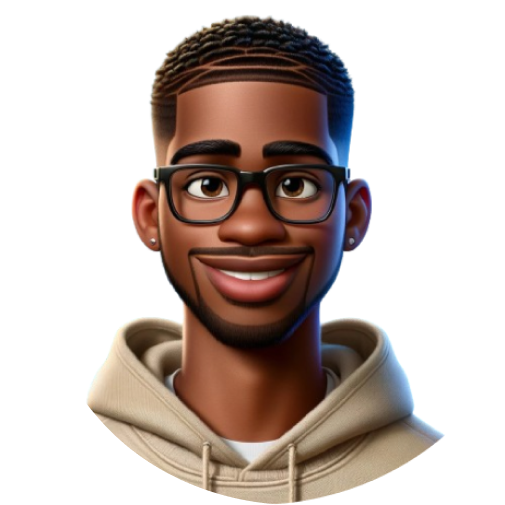
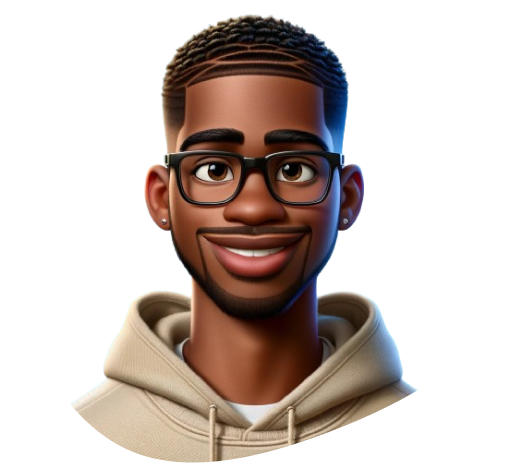
clean

Changed region(s): [[0.1485, 0.0302, 0.8911, 1.0]]

diff --git a/components/Work.jsx b/components/Work.jsx
@@ -1,0 +1,105 @@
+"use client";
+
+import Link from "next/link";
+import {Button} from "./ui/button";
+
+//import swiper styles
+import 'swiper/css';
+import "swiper/css/pagination"
+
+// import required modules
+import {Pagination} from "swiper/modules";
+
+//components
+import ProjectCard from "@/components/ProjectCard";
+import {Swiper, SwiperSlide} from 'swiper/react';
+
+const projectData = [
+    {
+        image: "/work/1.png",
+        category: "Web Development",
+        name: "Project 1",
+        description: "Lorem ipsum dolor sit amet, consectetur adipisicing elit. Aperiam, consequatur.",
+        link: "/",
+        github: "/",
+    },
+    {
+        image: "/work/2.png",
+        category: "Web Development",
+        name: "Project 1",
+        description: "Lorem ipsum dolor sit amet, consectetur adipisicing elit. Aperiam, consequatur.",
+        link: "/",
+        github: "/",
+    },
+    {
+        image: "/work/3.png",
+        category: "Web Development",
+        name: "Project 1",
+        description: "Lorem ipsum dolor sit amet, consectetur adipisicing elit. Aperiam, consequatur.",
+        link: "/",
+        github: "/",
+    },
+    {
+        image: "/work/4.png",
+        category: "Web Development",
+        name: "Project 1",
+        description: "Lorem ipsum dolor sit amet, consectetur adipisicing elit. Aperiam, consequatur.",
+        link: "/",
+        github: "/",
+    },
+    {
+        image: "/work/4.png",
+        category: "Web Development",
+        name: "Project 1",
+        description: "Lorem ipsum dolor sit amet, consectetur adipisicing elit. Aperiam, consequatur.",
+        link: "/",
+        github: "/",
+    },
+];
+
+const Work = () => {
+    return (
+        <section className={"relative mb-12 xl:mb-48"}>
+            <div className={"container mx-auto"}>
+                {/*  text  */}
+                <div
+                    className={"max-w-[400px] mx-auto xl:mx-0 text-center xk:text-left mb-12 xl:h-[400px] flex flex-col justify-center items-center xl:items-start"}>
+                    <h2 className={"section-title mb-4"}> Lastest Projects</h2>
+                    <p className={"subtitle mb-8"}>Lorem ipsum dolor sit amet, consectetur adipisicing elit. Aperiam,
+                        consequatur.</p>
+                    <Link href={"/work"}>
+                        <Button className={"mt-4"}>View All Projects</Button>
+                    </Link>
+                </div>
+                {/*  slider  */}
+                <div className={"xl:max-w-[1000px] xl:absolute right-0 top-0"}>
+                    <Swiper className={"h-[480px]"}
+                            spaceBetween={30}
+                            slidesPerView={1}
+                            breakpoints={{
+                                // when window width is >= 640px
+                                640: {
+                                    slidesPerView: 2,
+                                }
+                            }}
+                            modules={[Pagination]}
+                            pagination={{clickable: true}}
+                    >
+                        {/*  Show only the 4 projects for the slides  */}
+                        {projectData.slice(0, 4).map((project, index) => {
+                            return (
+                                <SwiperSlide key={index}>
+                                    <ProjectCard project={project}
+                                    />
+                                </SwiperSlide>
+
+                            );
+                        })}
+
+                    </Swiper>
+                </div>
+            </div>
+        </section>
+    )
+}
+export default Work

diff --git a/components/ProjectCard.jsx b/components/ProjectCard.jsx
@@ -1,0 +1,46 @@
+import Link from "next/link";
+import Image from "next/image";
+import {Card, CardHeader} from "@/components/ui/card";
+import {Github,Link2Icon} from "lucide-react";
+import {Badge} from "./ui/badge";
+
+
+const ProjectCard = ({project}) => {
+    console.log(project);
+    return (
+        <Card className={" group overflow-hidden relative"}>
+            <CardHeader className={" p-0"}>
+            {/*  image  */}
+                <div className={"relative w-full h-[300px] flex items-center justify-center bg-tertiary dark:bg-secondary/40 " +
+                    "xl:bg-work_project_bg_light xl:bg-[110%] dark:xl:bg-work_project_bg_dark xl:bg-no-repeat overflow-hidden"}>
+                    <Image
+                    className={"absolute bottom-0 shadow-2xl"}
+                    src={project.image}
+                    width={247}
+                    height={250}
+                    alt={"image projcet"}
+                    priority/>
+                {/*  btns  links*/}
+                    <div className={"flex gap-x-4"}>
+                        <Link href={project.link} className={"bg-secondary w-[54px] h-[54px] rounded-full flex justify-center items-center " +
+                            "scale-0 opacity-0 group-hover:scale-100 group-hover:opacity-100 transition-all duration-400"}>
+                            <Link2Icon className={"text-white"}/>
+                        </Link>
+                        <Link href={project.github}
+                              className={"bg-secondary w-[54px] h-[54px] rounded-full flex justify-center items-center" +
+                                  " scale-0 opacity-0 group-hover:scale-100 group-hover:opacity-100 transition-all duration-500"}>
+                            <Github className={"text-white"}/>
+                        </Link>
+                    </div>
+                </div>
+
+            </CardHeader>
+            <div className={"h-full px-8 py-6"}>
+                <Badge className={"uppercase text-sm font-medium mb-2 absolute top-4 left-5"}>{project.category}</Badge>
+                <h4 className={"h4 mb-1"}>{project.name}</h4>
+                <p className={"text-muted-foreground text-lg"}>{project.description}</p>
+            </div>
+        </Card>
+    )
+}
+export default ProjectCard

diff --git a/components/Services.jsx b/components/Services.jsx
@@ -1,6 +1,55 @@
-namespace DefaultNamespace;
+import {GanttChartSquare, Blocks, Gem} from "lucide-react"
+import {
+    Card,
+    CardContent,
+    CardDescription,
+    CardHeader,
+    CardTitle,
+} from "@/components/ui/card"
 
-public class Services_jsx
-{
-    
+
+const servicesData=[
+    {
+        title: "Web Development",
+        description: "I build websites and web applications using modern technologies like React, NextJS, and TailwindCSS.",
+        icon: <GanttChartSquare size={72} strokeWidth={0.8} />
+    },
+    {
+        title: "Mobile Development",
+        description: "I build mobile applications using React Native.",
+        icon: <Blocks size={72} strokeWidth={0.8}/>
+    },
+    {
+        title: "Backend Development",
+        description: "I build backend applications using NodeJS and Express.",
+        icon: <Gem size={72} strokeWidth={0.8}/>
+    },
+
+    ];
+
+const Services = () => {
+    return (
+        <section className={"mb-12 xl:mb-36"}>
+        <div className={"container mx-auto"}>
+            <h2 className={"section-title mb-12 xl:mb24 text-center mx-auto"}>My Services</h2>
+        {/*  grid items  */}
+            <div className={"grid xl:grid-cols-3 justify-center gap-y-12 xl:gap-y-24 xl:gap-x-8"}>
+                {servicesData.map((item, index) => {
+                    return (
+                        <Card className={"w-full max-w-[424px] h-[300px] flex flex-col pt-16 pb-10 justify-center items-center relative"} key={index}>
+                                <CardHeader className={"text-primary absolute -top-[60px]"}>
+                                    <div className={"w-[140px] h-[80px] bg-white dark:bg-background flex justify-center items-center"}>{item.icon}</div>
+                                </CardHeader>
+                            <CardContent className={"text-center"}>
+                                <CardTitle className={"mb-4"}>{item.title}</CardTitle>
+                                <CardDescription className={"text-lg"}>{item.description}</CardDescription>
+                            </CardContent>
+                        </Card>
+                    );
+                })}
+            </div>
+        </div>
+        </section>
+    )
 }
+export default Services

diff --git a/components/About.jsx b/components/About.jsx
@@ -201,7 +201,7 @@ const About = () => {
                     <div className={"hidden xl:flex flex-1 relative"}>
                         <DevImg
                             containerStyles={"bg-about_shape_light dark:bg-about_shape_dark w-[505px] h-[505px] bg-no-repeat relative"}
-                            imgSrc={"/hero/test.png"}
+                            imgSrc={"/hero/jl.png"}
                         />
                     </div>
                     {/*  tabs  */}

diff --git a/components/Hero.jsx b/components/Hero.jsx
@@ -76,7 +76,7 @@ const Hero = () => {
                             containerStyles={
                                 "bg-hero_shape w-[510px] h-[462px] bg-no-repeat relative bg-bottom"
                             }
-                            imgSrc={"/hero/test.png"}
+                            imgSrc={"/hero/jl-avatar.png"}
                         />
                     </div>
                 </div>

diff --git a/tailwind.config.js b/tailwind.config.js
@@ -87,6 +87,8 @@ module.exports = {
                 dots_dark: "url(/dots-dark.svg)",
                 about_shape_light: "url(/about/shape-light.svg)",
                 about_shape_dark: "url(/about/shape-dark.svg)",
+                work_project_bg_light: "url(/work/project-bg-light.png)",
+                work_project_bg_dark: "url(/work/project-bg-dark.png)",
             },
         },
     },

diff --git a/components/ui/card.jsx b/components/ui/card.jsx
@@ -5,7 +5,7 @@ import {cn} from "@/lib/utils"
 const Card = React.forwardRef(({className, ...props}, ref) => (
     <div
         ref={ref}
-        className={cn("rounded-lg border bg-card text-card-foreground shadow-sm", className)}
+        className={cn("rounded-[30px] border bg-background text-card-foreground", className)}
         {...props} />
 ))
 Card.displayName = "Card"

diff --git a/app/globals.css b/app/globals.css
@@ -91,3 +91,8 @@
     @apply z-10 w-[200px] h-[68px] bg-white dark:backdrop-blur-[44px] shadow-2xl rounded-[10px] flex items-center gap-x-4;
 }
 
+/* swiper bullet styles*/
+.swiper-horizontal > .section-pagination-bullets .swiper-pagination-bullet,
+.swiper-pagination-horizontal.swiper-pagination-bullets .swiper-pagination-bullet {
+    @apply bg-primary;
+}

diff --git a/app/page.jsx b/app/page.jsx
@@ -1,9 +1,13 @@
 import Hero from "@/components/Hero";
 import About from "@/components/About";
+import Services from "@/components/Services";
+import Work from "@/components/Work";
 
 export default function Home() {
     return <main>
         <Hero/>
         <About/>
+        <Services/>
+        <Work/>
     </main>;
 }

diff --git a/components/DevImg.jsx b/components/DevImg.jsx
@@ -9,7 +9,7 @@ const DevImg = ({containerStyles, imgSrc}) => {
                 alt="dev-img"
                 fill={true}
                 layout={"fill"}
-                objectFit={"cover"}
+                objectFit={"fit"}
             />
         </div>
     );
